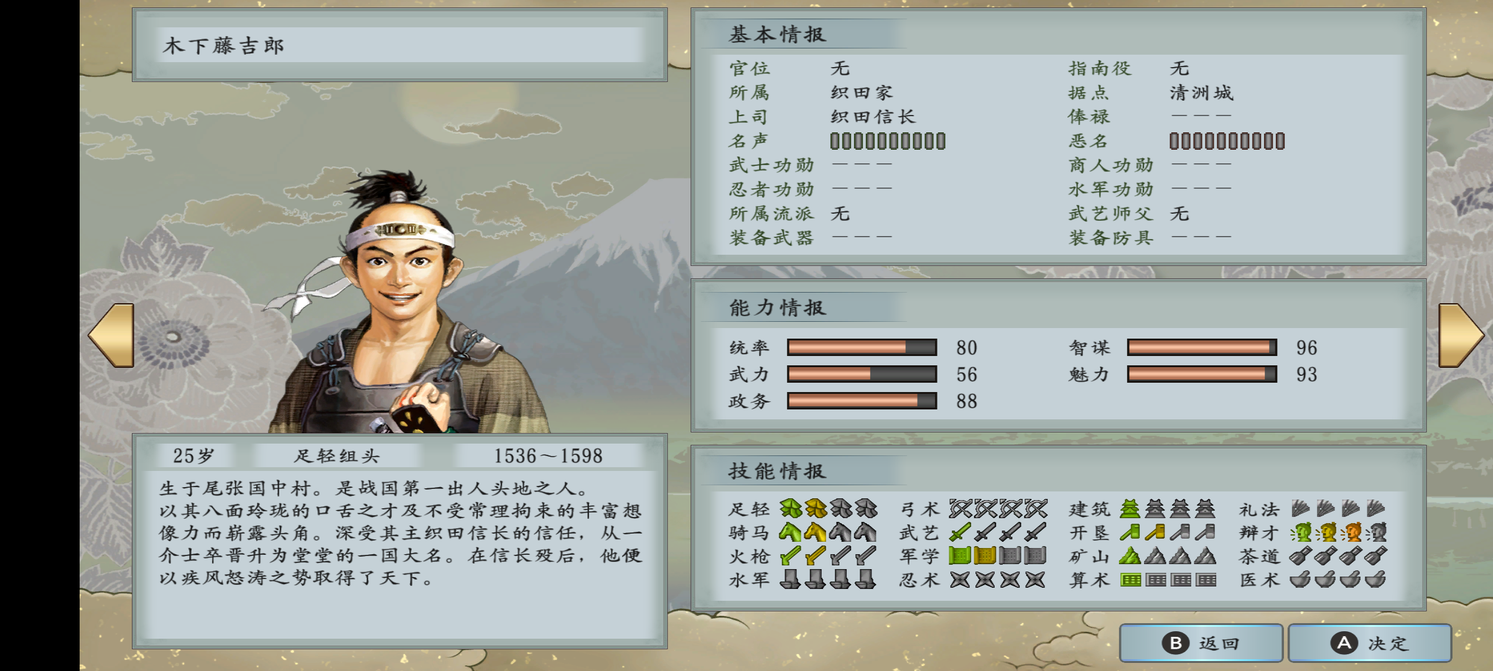
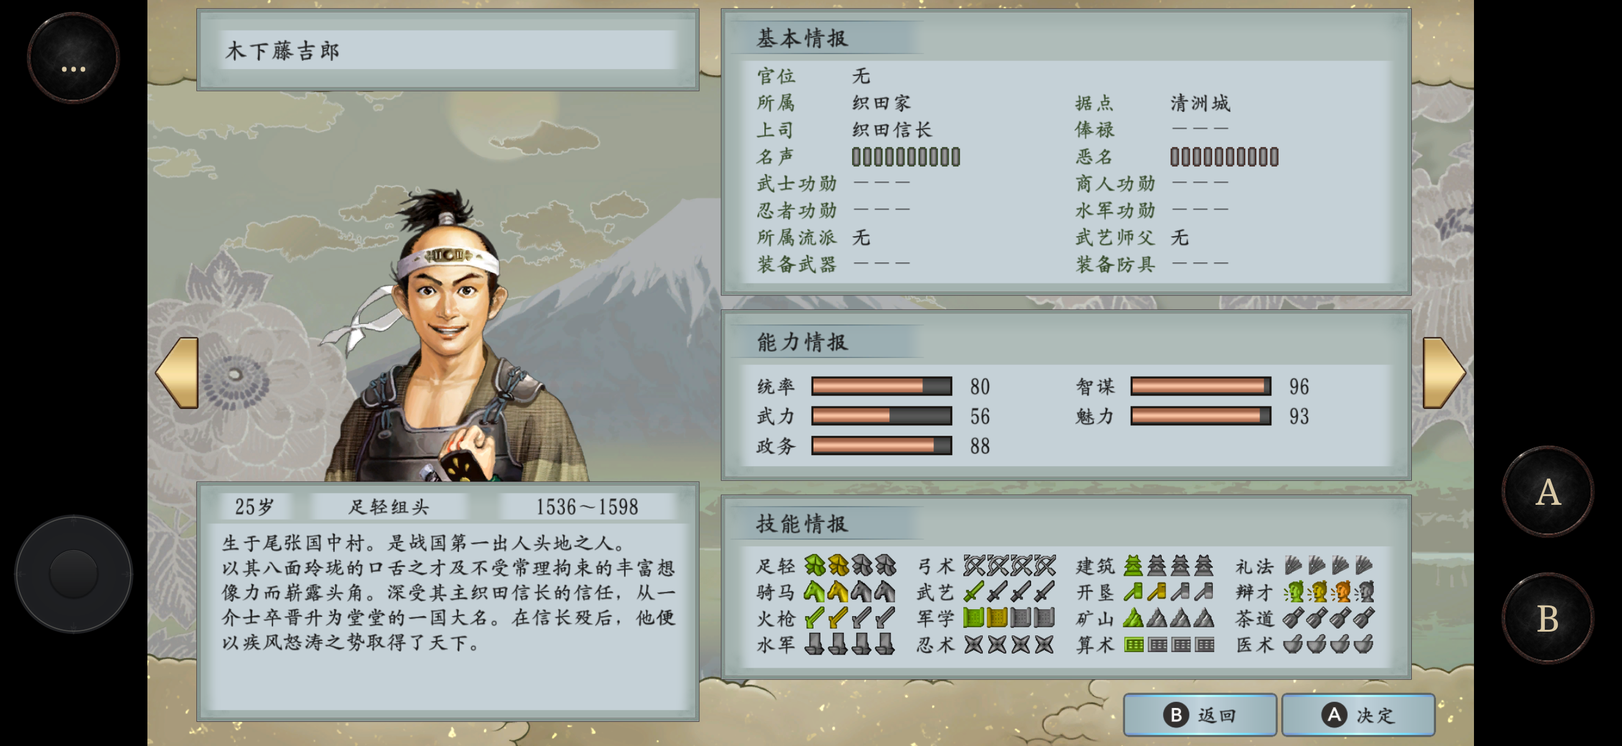
Fix partial CPU writes to GPU-owned textures

diff --git a/dm/gfx/vulkan/engine/xbg_game.cpp b/dm/gfx/vulkan/engine/xbg_game.cpp
@@ -1475,14 +1475,99 @@ uint64_t hash_memory(const void *memory,size_t n){CPU_SCOPE(Hash);const uint8_t 
     uint64_t h[4]={1469598103934665603ull,0x9e3779b97f4a7c15ull,0xc2b2ae3d27d4eb4full,0x165667b19e3779f9ull};size_t i=0;
     for(;i+32<=n;i+=32){for(unsigned k=0;k<4;k++){uint64_t w;memcpy(&w,p+i+8*k,8);h[k]=(h[k]^w)*0x100000001b3ull;h[k]^=h[k]>>29;}}
     uint64_t hash=h[0]^(h[1]*3)^(h[2]*5)^(h[3]*7)^n;for(;i<n;i++){hash^=p[i];hash*=1099511628211ull;}return hash;}
+// Only an explicit partial CPU overwrite needs the old GPU pixels in guest storage.
+// Use private transfer objects: this can run while retiring a frame-slot writeback,
+// so borrowing/resetting a frame-slot arena here would recurse or invalidate its caller.
+uint64_t cpu_image_merges=0,cpu_image_merge_bytes=0;
+void merge_gpu_image_for_cpu_write(Image &im,uint64_t address,uint64_t bytes){
+    need(im.source.mem && im.source.L.size && im.source.L.size<=256ull*1024*1024,"Invalid CPU/GPU texture merge storage");
+    need(im.samples==VK_SAMPLE_COUNT_1_BIT && !im.decoded,"CPU/GPU texture merge needs an uncompressed or native-block single-sample image");
+    struct Part{uint32_t level,layer,w,h,z;size_t row,rows,depth_off,stencil_off;};
+    std::vector<Part> parts;std::vector<VkBufferImageCopy> copies;
+    xbg_depth_format depth{};bool is_depth=xbg_depth_format_info(im.source.d.format,&depth)==0;
+    int bw=1,bh=1,bpb=nvn_fmt_bpb(im.source.d.format,&bw,&bh);
+    need(bpb>0,"Unknown CPU/GPU merge format");
+    std::vector<uint8_t> merged(im.source.L.size);memcpy(merged.data(),im.source.mem,merged.size());
+    size_t total=0;
+    for(uint32_t layer=0;layer<im.layers;layer++)for(uint32_t level=0;level<im.levels;level++){
+        uint32_t w=std::max(1u,im.width>>level),h=std::max(1u,im.height>>level),z=std::max(1u,im.depth>>level);
+        Part part{level,layer,w,h,z,size_t((w+bw-1)/bw)*size_t(bpb),size_t((h+bh-1)/bh),0,0};
+        auto plane=[&](VkImageAspectFlags aspect,size_t length,size_t alignment){
+            total=(total+alignment-1)/alignment*alignment;size_t offset=total;
+            need(total<=256ull*1024*1024 && length<=256ull*1024*1024-total,"CPU/GPU merge staging exceeds bound");total+=length;
+            VkBufferImageCopy copy{};copy.bufferOffset=offset;copy.imageSubresource={aspect,level,layer,1};copy.imageExtent={w,h,z};copies.push_back(copy);return offset;
+        };
+        if(is_depth){
+            size_t pixels=size_t(w)*h*z;
+            if(depth.depth_bytes)part.depth_off=plane(VK_IMAGE_ASPECT_DEPTH_BIT,pixels*((im.source.d.format==0x32&&depth16_as_d24)?4:depth.depth_bytes),4);
+            if(depth.stencil_bytes)part.stencil_off=plane(VK_IMAGE_ASPECT_STENCIL_BIT,pixels*depth.stencil_bytes,4);
+        }else{
+            size_t alignment=4;while(alignment%size_t(bpb))alignment+=4;
+            part.depth_off=plane(VK_IMAGE_ASPECT_COLOR_BIT,part.row*part.rows*z,alignment);
+        }
+        parts.push_back(part);
+    }
+    // Queue order includes all prior game work, without retiring/reusing either slot.
+    submit_slots(false);
+    Arena arena;arena.cached=true;ArenaChunk chunk=arena.make(total);
+    VkCommandPool pool{};VkCommandPoolCreateInfo pci{VK_STRUCTURE_TYPE_COMMAND_POOL_CREATE_INFO};pci.queueFamilyIndex=cfg.queue_family;
+    VK(vkCreateCommandPool(cfg.device,&pci,nullptr,&pool));
+    VkCommandBuffer command{};VkCommandBufferAllocateInfo cai{VK_STRUCTURE_TYPE_COMMAND_BUFFER_ALLOCATE_INFO};cai.commandPool=pool;cai.level=VK_COMMAND_BUFFER_LEVEL_PRIMARY;cai.commandBufferCount=1;
+    VK(vkAllocateCommandBuffers(cfg.device,&cai,&command));
+    VkCommandBufferBeginInfo begin{VK_STRUCTURE_TYPE_COMMAND_BUFFER_BEGIN_INFO};begin.flags=VK_COMMAND_BUFFER_USAGE_ONE_TIME_SUBMIT_BIT;VK(vkBeginCommandBuffer(command,&begin));
+    VkImageLayout saved=im.layout;im.transition(command,VK_IMAGE_LAYOUT_TRANSFER_SRC_OPTIMAL);
+    vkCmdCopyImageToBuffer(command,im.image,im.layout,chunk.buffer,uint32_t(copies.size()),copies.data());
+    im.transition(command,saved);
+    VkMemoryBarrier host{VK_STRUCTURE_TYPE_MEMORY_BARRIER};host.srcAccessMask=VK_ACCESS_TRANSFER_WRITE_BIT;host.dstAccessMask=VK_ACCESS_HOST_READ_BIT;
+    vkCmdPipelineBarrier(command,VK_PIPELINE_STAGE_TRANSFER_BIT,VK_PIPELINE_STAGE_HOST_BIT,0,1,&host,0,nullptr,0,nullptr);VK(vkEndCommandBuffer(command));
+    VkFence fence{};VkFenceCreateInfo fci{VK_STRUCTURE_TYPE_FENCE_CREATE_INFO};VK(vkCreateFence(cfg.device,&fci,nullptr,&fence));
+    VkSubmitInfo submit{VK_STRUCTURE_TYPE_SUBMIT_INFO};submit.commandBufferCount=1;submit.pCommandBuffers=&command;
+    VK(vkQueueSubmit(cfg.queue,1,&submit,fence));++perf.submits;++perf.sync_readback;++perf.waits;
+    VK(vkWaitForFences(cfg.device,1,&fence,VK_TRUE,UINT64_MAX));
+    if(!chunk.coherent){VkMappedMemoryRange range{VK_STRUCTURE_TYPE_MAPPED_MEMORY_RANGE};range.memory=chunk.memory;range.size=VK_WHOLE_SIZE;VK(vkInvalidateMappedMemoryRanges(cfg.device,1,&range));}
+    for(const Part &part:parts){
+        std::vector<uint8_t> packed;const uint8_t *linear=chunk.mapped+part.depth_off;
+        if(im.source.d.flags&0x10){
+            need(part.level==0&&part.layer==0&&part.z==1,"Linear CPU/GPU merge mip/layer/volume unsupported");
+            size_t pitch=im.source.d.stride?im.source.d.stride:(part.row+31)&~size_t(31);
+            need(pitch>=part.row&&pitch<=merged.size()/part.rows,"Linear CPU/GPU merge storage extent invalid");
+        }
+        if(is_depth){
+            packed.resize(part.row*part.rows*part.z);
+            if(im.source.d.flags&0x10){size_t pitch=im.source.d.stride?im.source.d.stride:(part.row+31)&~size_t(31);for(uint32_t y=0;y<part.h;y++)memcpy(packed.data()+y*part.row,merged.data()+y*pitch,part.row);}
+            else need(nvn_deswizzle(&im.source.d,part.level,part.layer,merged.data(),packed.data(),part.row)==0,"Depth merge deswizzle failed");
+            const void *dp=depth.depth_bytes?chunk.mapped+part.depth_off:nullptr,*sp=depth.stencil_bytes?chunk.mapped+part.stencil_off:nullptr;
+            size_t pixels=size_t(part.w)*part.h*part.z;std::vector<uint16_t> d16;
+            if(im.source.d.format==0x32&&depth16_as_d24){d16.resize(pixels);for(size_t i=0;i<pixels;i++){uint32_t value;memcpy(&value,static_cast<const uint8_t*>(dp)+4*i,4);d16[i]=uint16_t(d24_to_d16(value));}dp=d16.data();}
+            need(xbg_depth_merge(im.source.d.format,part.w,part.h,part.z,packed.data(),packed.size(),part.row,part.row*part.rows,dp,pixels*depth.depth_bytes,sp,pixels*depth.stencil_bytes)==0,"Depth merge packing failed");
+            linear=packed.data();
+        }
+        if(im.source.d.flags&0x10){
+            need(part.level==0&&part.layer==0&&part.z==1,"Linear CPU/GPU merge mip/layer/volume unsupported");
+            size_t pitch=im.source.d.stride?im.source.d.stride:(part.row+31)&~size_t(31);
+            need(pitch>=part.row&&pitch*part.rows<=merged.size(),"Linear CPU/GPU merge storage extent invalid");
+            for(size_t y=0;y<part.rows;y++)memcpy(merged.data()+y*pitch,linear+y*part.row,part.row);
+        }else need(nvn_swizzle(&im.source.d,part.level,part.layer,linear,part.row,merged.data())==0,"CPU/GPU merge swizzle failed");
+    }
+    vkDestroyFence(cfg.device,fence,nullptr);vkDestroyCommandPool(cfg.device,pool,nullptr);Arena::destroy(chunk);
+    uint64_t base=uintptr_t(im.source.mem),end=base+merged.size();
+    uint64_t first=std::max(base,address),last=std::min(end,address+bytes);
+    // The caller supplies the overwrite next. Preserve its CPU bytes until then;
+    // only the untouched prefix/suffix are brought current from the GPU snapshot.
+    if(first>base)memcpy(im.source.mem,merged.data(),size_t(first-base));
+    if(last<end)memcpy(im.source.mem+(last-base),merged.data()+(last-base),size_t(end-last));
+    snapshot_invalidate(base,merged.size());
+    ++cpu_image_merges;cpu_image_merge_bytes+=total;
+    if(cpu_image_merges<=12)xbg_logf("NVN CPUWRITE merge count=%llu op=%u serial=%llu format=%#x readback=%zu overwrite=%llu totalReadback=%llu",(unsigned long long)cpu_image_merges,cur_op,(unsigned long long)im.source.serial,im.source.d.format,total,(unsigned long long)bytes,(unsigned long long)cpu_image_merge_bytes);
+}
 void invalidate_cpu_range(uint64_t address,uint64_t bytes){CPU_SCOPE(CpuWrite);
     need(address+bytes>=address,"CPU write range overflow");cpu_access(address,bytes,4);snapshot_invalidate(address,bytes);
-    for_images_overlapping(address,bytes,[&](Image &im){if(draw_detail)draw_timing.image();uint64_t begin=uintptr_t(im.source.mem),end=begin+im.source.L.size;
-        // A full storage overwrite replaces the prior GPU contents. A partial
-        // overwrite requires GPU-to-NVN readback/merge before applying CPU data.
-        need(!im.gpu_written || (address<=begin && address+bytes>=end),"Partial CPU write aliases GPU-written texture; readback/merge required");
+    std::vector<Image*> overlap;for_images_overlapping(address,bytes,[&](Image &im){if(std::find(overlap.begin(),overlap.end(),&im)==overlap.end())overlap.push_back(&im);});
+    std::sort(overlap.begin(),overlap.end(),[](Image *a,Image *b){return a->provenance_writer<b->provenance_writer;});
+    for(Image *image:overlap){Image &im=*image;if(draw_detail)draw_timing.image();uint64_t begin=uintptr_t(im.source.mem),end=begin+im.source.L.size;
+        if(im.gpu_written && !(address<=begin && address+bytes>=end))merge_gpu_image_for_cpu_write(im,address,bytes);
         im.gpu_written=false;provenance_write(im,__LINE__);im.uploaded=false;im.checked_submission=UINT64_MAX;
-    });
+    }
 }
 
 bool resolving_pending=false;
@@ -3280,7 +3365,7 @@ void copy_texture_buffer(const p_copy_b2t &request,bool to_buffer){preflight_cpu
     if(!to_buffer){
         int bw=1,bh=1;int bpb=nvn_fmt_bpb(p.tex->d.format,&bw,&bh);xbg_depth_format depth;
         if(xbg_depth_format_info(p.tex->d.format,&depth)==0){bw=bh=1;bpb=int(depth.packed_bytes);}
-        size_t row,image,bytes;
+        size_t row=0,image=0,bytes=0;
         need(bpb>0 && nvn_copy_pitch(p.r.width,p.r.height,p.r.depth,bw,bh,bpb,state.copy_stride,state.copy_image_stride,&row,&image,&bytes) && bytes<=256ull*1024*1024,"Invalid buffer image CPU read range");
         cpu_access(p.src,bytes,9);
     }
@@ -3971,7 +4056,14 @@ extern "C" int xbg_legacy_wait(uint64_t fence,uint64_t timeout){
     return fence<=completed;
 }
 extern "C" void xbg_legacy_finish(){gfx_drain();std::lock_guard<std::recursive_mutex> lock(mutex);need(initialized,"Queue finish before Vulkan initialization");++perf.why_finish;complete_all();VK(vkQueueWaitIdle(cfg.queue));}
-static void xbg_present_texture_now(const win_t *window,const tex_t *texture){std::lock_guard<std::recursive_mutex> lock(mutex);preflight_cpu_reads();{SiteScope site(SITE_PRESENT);cur_op=61;TimingRoot timing_root;CPU_SCOPE(Other);need(initialized&&cfg.present,"Game presentation callback not installed");uint64_t present_begin=timing_clock();Image &im=get_image(texture,false);need(im.gpu_written,"Game tried to present a texture never rendered");Commands c;im.transition(c.command,VK_IMAGE_LAYOUT_TRANSFER_SRC_OPTIMAL);c.finish();submit_slots(false);int r;{CPU_SCOPE(Present);r=cfg.present(cfg.userdata,window->native,im.image,im.fmt,im.width,im.height,window->crop,window->interval);}if(r)xbg_fatalf("Game presentation failed: %d",r);++stats.presents;if(pass_prof_enabled && stats.presents.load()==pass_prof_frame)xbg_logf("NVN GPASS boundary frame=%llu slots=%u skipped_slots=%u reserved_queries=%u max_queries=%u max_slots=%u",(unsigned long long)pass_prof_frame,pass_prof_slots,pass_prof_skipped_slots,pass_prof_queries,pass_prof_query_limit,pass_prof_slot_limit);perf.present_cpu_ns+=timing_clock()-present_begin;perf_frame();if(provenance_file && stats.presents.load()>=provenance.target)provenance_close("END");if(capture.trace && stats.presents==capture.frame){capture_log("END frame=%llu events=%u bytes=%llu presentedSerial=%llu image=%p",(unsigned long long)capture.frame,capture.events,(unsigned long long)capture.bytes,(unsigned long long)texture->serial,(void*)im.image);fclose(capture.trace);capture.trace=nullptr;capture.active=false;xbg_logf("NVN one-frame capture complete frame=%llu events=%u bytes=%llu",(unsigned long long)capture.frame,capture.events,(unsigned long long)capture.bytes);}}timing_boundary();}
+#if XBG_CPU_MERGE_TEST
+#include "../tests/cpu_image_merge.h"
+#endif
+static void xbg_present_texture_now(const win_t *window,const tex_t *texture){std::lock_guard<std::recursive_mutex> lock(mutex);preflight_cpu_reads();{SiteScope site(SITE_PRESENT);cur_op=61;TimingRoot timing_root;CPU_SCOPE(Other);need(initialized&&cfg.present,"Game presentation callback not installed");uint64_t present_begin=timing_clock();Image &im=get_image(texture,false);need(im.gpu_written,"Game tried to present a texture never rendered");
+#if XBG_CPU_MERGE_TEST
+cpu_image_merge_test();
+#endif
+Commands c;im.transition(c.command,VK_IMAGE_LAYOUT_TRANSFER_SRC_OPTIMAL);c.finish();submit_slots(false);int r;{CPU_SCOPE(Present);r=cfg.present(cfg.userdata,window->native,im.image,im.fmt,im.width,im.height,window->crop,window->interval);}if(r)xbg_fatalf("Game presentation failed: %d",r);++stats.presents;if(stats.presents.load()%300==0)xbg_logf("NVN CPUWRITE totals merges=%llu readbackBytes=%llu",(unsigned long long)cpu_image_merges,(unsigned long long)cpu_image_merge_bytes);if(pass_prof_enabled && stats.presents.load()==pass_prof_frame)xbg_logf("NVN GPASS boundary frame=%llu slots=%u skipped_slots=%u reserved_queries=%u max_queries=%u max_slots=%u",(unsigned long long)pass_prof_frame,pass_prof_slots,pass_prof_skipped_slots,pass_prof_queries,pass_prof_query_limit,pass_prof_slot_limit);perf.present_cpu_ns+=timing_clock()-present_begin;perf_frame();if(provenance_file && stats.presents.load()>=provenance.target)provenance_close("END");if(capture.trace && stats.presents==capture.frame){capture_log("END frame=%llu events=%u bytes=%llu presentedSerial=%llu image=%p",(unsigned long long)capture.frame,capture.events,(unsigned long long)capture.bytes,(unsigned long long)texture->serial,(void*)im.image);fclose(capture.trace);capture.trace=nullptr;capture.active=false;xbg_logf("NVN one-frame capture complete frame=%llu events=%u bytes=%llu",(unsigned long long)capture.frame,capture.events,(unsigned long long)capture.bytes);}}timing_boundary();}
 extern "C" void xbg_legacy_read_texels(const tex_t *t,unsigned level,unsigned layer,const NVNcopyRegion *r,uint8_t *dst,size_t row,size_t image){gfx_drain();std::lock_guard<std::recursive_mutex> lock(mutex);preflight_cpu_reads();need(t&&r&&dst,"Invalid ReadTexels arguments");auto found=images.find(t->serial);if(found==images.end() || !found->second->gpu_written){int bw,bh,bpp=nvn_fmt_bpb(t->d.format,&bw,&bh);need(bpp && r->xoffset==0 && r->yoffset==0 && r->zoffset==0 && r->depth==1 && uint32_t(r->width)==std::max(1u,t->d.width>>level) && uint32_t(r->height)==std::max(1u,t->d.height>>level),"CPU ReadTexels partial region unsupported");need(!(t->d.flags&0x10),"Linear CPU ReadTexels not implemented");need(nvn_deswizzle(&t->d,level,layer,t->mem,dst,row)==0,"ReadTexels deswizzle failed");}
     else{p_copy_b2t p{};p.src=uint64_t(dst);p.tex=t;p.has_view=1;p.view.set_levels=p.view.set_layers=1;p.view.base_level=level;p.view.nlevels=1;p.view.min_layer=layer;p.view.nlayers=1;p.r=*r;int64_t old=state.copy_stride,old_image=state.copy_image_stride;state.copy_stride=row;state.copy_image_stride=image;copy_texture_buffer(p,true);state.copy_stride=old;state.copy_image_stride=old_image;}}
 

diff --git a/dm/gfx/vulkan/tests/cpu_image_merge.h b/dm/gfx/vulkan/tests/cpu_image_merge.h
@@ -1,0 +1,46 @@
+// Included inside the replay namespace in integration-test builds only.
+// No game inputs: clear a real Vulkan image, replace one guest byte, and verify
+// every texel across three mip levels and two array layers, plus storage padding.
+void cpu_image_merge_test(){
+    static bool ran=false;if(ran)return;ran=true;
+    tex_t texture{};texture.magic=MAGIC('T','E','X',0);texture.serial=UINT64_MAX-1;
+    texture.d.target=4;texture.d.format=NVN_FORMAT_RGBA8;texture.d.width=17;texture.d.height=9;texture.d.depth=2;texture.d.levels=3;
+    nvn_tex_layout(&texture.d,&texture.L);
+    std::vector<uint8_t> storage(texture.L.size,0xa5);texture.mem=storage.data();
+    Image &im=get_image(&texture,false);
+    Commands command;im.transition(command.command,VK_IMAGE_LAYOUT_TRANSFER_DST_OPTIMAL);
+    VkClearColorValue color{};color.float32[0]=.2f;color.float32[1]=.4f;color.float32[2]=.6f;color.float32[3]=.8f;
+    VkImageSubresourceRange range{VK_IMAGE_ASPECT_COLOR_BIT,0,im.levels,0,im.layers};
+    vkCmdClearColorImage(command.command,im.image,im.layout,&color,1,&range);
+    im.transition(command.command,VK_IMAGE_LAYOUT_GENERAL);command.finish();im.gpu_written=true;provenance_write(im,__LINE__);
+    uint32_t row,rows,slices,bpb;uint64_t base;unsigned th,td;
+    need(nvn_deswizzle_geom(&texture.d,0,0,&row,&rows,&slices,&base,&th,&td,&bpb)==0,"Merge fixture geometry failed");
+    const size_t offset=base+nvn_bl_offset(3*4+2,1,0,row,rows,th,td);
+    const uint64_t before=cpu_image_merges;
+    invalidate_cpu_range(uintptr_t(storage.data()+offset),1);storage[offset]=0x7b;
+    need(cpu_image_merges==before+1,"Merge fixture did not exercise exactly one GPU merge");
+    std::vector<uint8_t> expected(texture.L.size,0xa5);
+    for(uint32_t layer=0;layer<2;layer++)for(uint32_t level=0;level<3;level++){
+        uint32_t w=std::max(1u,17u>>level),h=std::max(1u,9u>>level);std::vector<uint8_t> pixels(size_t(w)*h*4);
+        for(size_t i=0;i<pixels.size();i++)pixels[i]=uint8_t(51*(i%4+1));
+        if(layer==0&&level==0)pixels[(1*w+3)*4+2]=0x7b;
+        need(nvn_swizzle(&texture.d,level,layer,pixels.data(),w*4,expected.data())==0,"Merge fixture swizzle failed");
+    }
+    need(storage==expected,"GPU merge lost pixels, mip/layer contents, patch bytes or padding");
+    invalidate_cpu_range(uintptr_t(storage.data()+offset),1);
+    need(cpu_image_merges==before+1,"CPU-authoritative write performed an unnecessary GPU merge");
+    im.gpu_written=true;invalidate_cpu_range(uintptr_t(storage.data()),storage.size());
+    need(cpu_image_merges==before+1,"Full overwrite performed an unnecessary GPU merge");
+    // Also enter through deferred slot writeback retirement. The merge must not
+    // borrow/reset that slot's arena or recursively resolve the pending list.
+    im.gpu_written=true;
+    Buffer patch=readback_buffer(1);static_cast<uint8_t*>(patch.mapped)[0]=0x39;patch.flush();
+    const void *owner=&texture;
+    pending_writebacks.push_back({uintptr_t(storage.data()+offset),1,patch,owner});
+    resolve_slot_writebacks(owner);
+    need(cpu_image_merges==before+2&&storage[offset]==0x39,"Deferred writeback merge failed");
+    expected[offset]=0x39;
+    need(storage==expected,"Deferred writeback merge changed untouched pixels or padding");
+    images.erase(texture.serial);image_index_dirty=true;++images_epoch;++memo_check_gen;
+    xbg_logf("NVN CPUWRITE integration PASS: one-byte overwrite, mip/layer preservation, padding, CPU-only/full-overwrite fast paths, deferred writeback retirement");
+}

diff --git a/scripts/build_apk.py b/scripts/build_apk.py
@@ -25,7 +25,7 @@ def main():
     run(sys.executable, ROOT / 'dm/games/game.py', 'header', '0100346017304000', gen / 'game_profile.h')
     run(a.cmake, '-S', ROOT / 'dm/android', '-B', native, '-G', 'Ninja',
         f'-DCMAKE_TOOLCHAIN_FILE={a.ndk.resolve() / "build/cmake/android.toolchain.cmake"}',
-        '-DANDROID_ABI=arm64-v8a', '-DANDROID_PLATFORM=android-31', f'-DNX_GEN_DIR={gen}', '-DCMAKE_BUILD_TYPE=RelWithDebInfo')
+        '-DANDROID_ABI=arm64-v8a', '-DANDROID_PLATFORM=android-31', '-DXBG_CPU_MERGE_TEST=OFF', f'-DNX_GEN_DIR={gen}', '-DCMAKE_BUILD_TYPE=RelWithDebInfo')
     run(a.cmake, '--build', native, '--target', 'taikou', '-j', a.jobs)
     run(sys.executable, ROOT / 'dm/android/tools/package_bringup.py', '--build', native, '--output', apk,
         '--build-tools', a.build_tools.resolve(), '--jdk', a.jdk.resolve(), '--android-jar', a.android_jar.resolve())

diff --git a/README.md b/README.md
@@ -8,17 +8,17 @@ Android 12+ · ARM64 · Vulkan 1.1 baseline · Switch title `0100346017304000`, 
 
 ## Screenshots
 
-Actual Android emulator captures. The title screen is from **0.1.2-preview / v196608**. The character profile and opening dialogue are from the **earlier base-v0 bring-up**, before the current touch overlay; they are not evidence that the latest updated build reaches those scenes. In the latest capture attempt, entering character details aborted on an unsupported partial CPU/GPU texture alias operation; see [validation notes](docs/VALIDATION.md).
+Actual Android emulator captures. The title screen is from **0.1.2-preview / v196608**. The character profile and opening dialogue are from **0.1.3-preview / v196608**, with the current touch overlay. See [validation notes](docs/VALIDATION.md).
 
 **Title screen — centered 16:9 with virtual controls**
 
 ![Taikou Risshiden V DX title screen with centered game image and virtual joystick and A/B buttons](docs/screenshots/main-screen.png)
 
-**Kinoshita Tokichiro — introduction, attributes and skills (earlier base-game build)**
+**Kinoshita Tokichiro — introduction, attributes and skills (0.1.3-preview)**
 
 ![Kinoshita Tokichiro character profile showing biography, attributes and skills](docs/screenshots/kinoshita-profile.png)
 
-**First conversation outside Kiyosu Castle (earlier base-game build)**
+**First conversation outside Kiyosu Castle (0.1.3-preview)**
 
 ![Opening conversation: a ninja tells Kinoshita that Nobunaga is looking for him](docs/screenshots/opening-dialogue.png)
 
@@ -31,7 +31,7 @@ Screenshots illustrate compatibility only. In-game artwork/text belong to their 
 - Scripts to rewrite your original ExeFS, extract/translate your own shaders and create a private import ZIP.
 - A shell APK containing runtime code and project control artwork only. It contains no game executable, RomFS, translated game shaders or saves.
 
-This is an early preview, not a claim of complete compatibility. The earlier base-game build reached the opening conversation outside Kiyosu Castle in the emulator. The updated build reached title/scenario selection and accepted native touch. Menu/selection samples in the development emulator measured approximately 51–54 FPS; movies were slower. These are emulator observations, not phone benchmarks or full-playthrough results. [Limitations](docs/ANDROID.md#known-limitations).
+This is an early preview, not a claim of complete compatibility. The updated v196608 build reached the character profile and opening conversation outside Kiyosu Castle in the emulator, and accepted native touch. Menu/selection samples in the development emulator measured approximately 51–54 FPS; movies were slower. These are emulator observations, not phone benchmarks or full-playthrough results. [Limitations](docs/ANDROID.md#known-limitations).
 
 ## Start here
 

diff --git a/README.zh-CN.md b/README.zh-CN.md
@@ -8,17 +8,17 @@ Android 12 及以上 · ARM64 · Vulkan 1.1 基线 · Switch 标题 ID `01003460
 
 ## 运行效果
 
-以下均为 Android 模拟器实际截图。标题画面来自 **0.1.2-preview / v196608 更新版**；人物介绍/属性与开场对话来自**此前本体 v0 的开发验证**，当时尚未加入当前虚拟控件，不能据此认为最新更新版已通过这些场景。本次重新截图时，当前更新版进入人物详情触发了尚未支持的 CPU/GPU 贴图部分写入别名操作并退出，已记录在[验证说明](docs/VALIDATION.md)。
+以下均为 Android 模拟器实际截图。标题画面来自 **0.1.2-preview / v196608 更新版**；人物介绍、属性与开场对话来自 **0.1.3-preview / v196608 更新版**，已包含当前虚拟控件。详见[验证说明](docs/VALIDATION.md)。
 
 **主界面：居中 16:9，保留虚拟摇杆与 A/B**
 
 ![太阁立志传 V DX 标题主界面，游戏画面居中，两侧为摇杆及 A/B](docs/screenshots/main-screen.png)
 
-**木下藤吉郎：人物介绍、属性与技能（此前本体验证版）**
+**木下藤吉郎：人物介绍、属性与技能（0.1.3-preview）**
 
 ![木下藤吉郎的人物介绍与属性界面，展示统率、武力、政务、智谋、魅力及技能](docs/screenshots/kinoshita-profile.png)
 
-**开场第一个对话：清洲城外（此前本体验证版）**
+**开场第一个对话：清洲城外（0.1.3-preview）**
 
 ![开场忍者对木下藤吉郎说：木下大人，信长大人在找你](docs/screenshots/opening-dialogue.png)
 
@@ -31,7 +31,7 @@ Android 12 及以上 · ARM64 · Vulkan 1.1 基线 · Switch 标题 ID `01003460
 - 从个人原始 ExeFS 改写程序、提取并翻译个人游戏着色器、生成私有导入 ZIP 的脚本。
 - 仅包含运行时代码及项目控件美术的壳 APK。**不含游戏程序、RomFS、游戏着色器或存档。**
 
-目前为早期预览。之前的本体运行版本已在模拟器进入清洲城外的开场对话；更新版已进入标题和剧本选择，并验证原生触摸。开发模拟器的菜单、人物选择样本约 51–54 FPS，影片较慢。这些不是手机性能数据，也不代表完整通关验证。[已知限制](docs/ANDROID.zh-CN.md#已知限制)。
+目前为早期预览。v196608 更新版已在模拟器通过人物介绍、属性页，进入清洲城外的开场对话，并验证原生触摸。开发模拟器的菜单、人物选择样本约 51–54 FPS，影片较慢。这些不是手机性能数据，也不代表完整通关验证。[已知限制](docs/ANDROID.zh-CN.md#已知限制)。
 
 ## 如何开始
 

diff --git a/docs/VALIDATION.md b/docs/VALIDATION.md
@@ -17,3 +17,14 @@ Cutout correction (0.1.1-preview): enabled a left-cutout emulator overlay at 260
 Automatic startup (0.1.2-preview): cold-started the final shell with previously verified imported resources. It directly created the game Surface, without the import/Play launcher, in approximately 765 ms Activity startup time on this emulator. The full-screen 2608×1200 window and (237,0,2133,1200) Surface bounds were retained. This timing is Activity startup, not time to the game menu.
 
 README capture follow-up (2026-10-23): the current v196608 / 0.1.2-preview build reached scenario and protagonist selection, but confirming Kinoshita Tokichiro then aborted with `Partial CPU write aliases GPU-written texture; readback/merge required`. The README therefore uses the prior base-v0 profile and opening-dialogue captures with explicit build labels. This observed updated-build limitation is not resolved by the documentation change.
+
+
+## Partial texture alias fix (0.1.3-preview)
+
+The 0.1.2 failure above was intermittent; successful scene navigation alone does not prove the alias path. An opt-in integration fixture on emulator-5556 exercised actual Vulkan image copies: a 17×9 RGBA8 image with three mips and two layers, a one-byte CPU overwrite, every preserved pixel and padding byte, CPU-owned/full-overwrite fast paths, and a deferred slot writeback. Both required merges passed (1,544 bytes each); fast paths added no merges.
+
+The public build disables the fixture. That APK reached the v196608 Kinoshita profile and opening ninja conversation, with the process alive and sampled CPUWRITE counters at zero merges/zero readback bytes. This verifies those scenes without adding recurring readback; it is not a complete playthrough. Partial merges of decoded BC or multisample images remain unsupported.
+
+The same-signature 0.1.3 APK was installed on the connected phone. Resource import and phone gameplay/performance remain pending. The earlier statement about CI describes initial local validation; the hosted workflow has since run successfully.
+
+中文：新增真实 Vulkan 定向检查，验证单字节覆盖、多级 mip/多层贴图、填充保留，以及延迟写回；两个必要合并均通过，完整覆盖和 CPU 持有路径无额外回读。关闭检查的公开 APK 已在模拟器进入更新版人物属性及忍者开场对话，采样期间合并和回读计数均为零。新版已覆盖安装到手机，手机资源导入和实际运行尚待验证。

diff --git a/docs/screenshots/README.md b/docs/screenshots/README.md
@@ -5,9 +5,9 @@ Captured on 2026-10-23 in the Android emulator, with no compositing or generated
 | File | Scene | Build provenance |
 |---|---|---|
 | main-screen.png | Title / main screen, 2608×1200 display | 0.1.2-preview, updated v196608; current centered viewport and touch overlay |
-| kinoshita-profile.png | Kinoshita Tokichiro introduction, attributes and skills | Earlier base-v0 bring-up, before the current overlay; original capture emulator-choose.png |
-| opening-dialogue.png | First conversation outside Kiyosu Castle | Earlier base-v0 bring-up, before the current overlay; original capture emulator-ingame.png |
+| kinoshita-profile.png | Kinoshita Tokichiro introduction, attributes and skills | 0.1.3-preview, updated v196608; current overlay, capture fixed-profile.png |
+| opening-dialogue.png | First conversation outside Kiyosu Castle | 0.1.3-preview, updated v196608; current overlay, capture fixed-dialogue.png |
 
 These are illustrative documentation captures, not extracted runtime textures or a playable content package. Game artwork/text/trademarks remain the property of their respective owners and are not covered by the project's MIT code license. Screenshots are not embedded in the APK or personal-resource generator. They demonstrate specific captured scenes, not a full playthrough, a phone performance benchmark, or current-version compatibility for every scene.
 
-中文：均为模拟器原始截图，未合成或生成。主界面为当前更新版，属性页和首个对话为之前本体开发版；已明确区分版本。截图仅用于文档展示，不打入 APK，也不是游戏资源包。游戏内容权利不因代码 MIT 许可证而转移。
+中文：均为模拟器原始截图，未合成或生成。主界面为 0.1.2-preview，属性页和首个对话为 0.1.3-preview，均使用 v196608 更新版；已明确区分版本。截图仅用于文档展示，不打入 APK，也不是游戏资源包。游戏内容权利不因代码 MIT 许可证而转移。

diff --git a/artifacts/RELEASE_NOTES.md b/artifacts/RELEASE_NOTES.md
@@ -1,4 +1,4 @@
-# Taikou5 Mobile 0.1.2-preview
+# Taikou5 Mobile 0.1.3-preview
 
 [English](../README.md) · [中文](../README.zh-CN.md)
 
@@ -9,3 +9,7 @@ Based on seedds/nxnative a08bbdd3 and official jhaizhou-ops/d2r-mobile v2.0.0 b8
 中文：仅提供 ARM64 壳 APK，不含游戏、着色器、DLC、密钥及存档。请按中文文档自备并合并本体和 v196608 更新，再运行脚本生成个人 ZIP 导入。感谢 nxnative 与官方 d2r-mobile。当前为模拟器预览，未验证真机与完整通关；卸载会删除私有数据，注意先备份。
 
 Fix: centered 16:9 across the full display, with camera avoidance applied to controls only. 修正：按整块屏幕居中保持 16:9，摄像头仅影响控件避让。
+
+Fix: partial CPU overwrites now preserve GPU-written image data instead of aborting. Updated-game character profile and opening conversation verified in the emulator; phone gameplay validation pending. Existing personal ZIPs remain compatible.
+
+修复：CPU 部分覆盖贴图时合并保留 GPU 内容，避免此前的退出。模拟器已通过更新版人物属性与开场对话；真机运行待验证。原有个人资源包可继续使用，无需重新打包。

diff --git a/docs/ANDROID.md b/docs/ANDROID.md
@@ -48,9 +48,9 @@ Keep backups private. Test backup/restore before relying on a long playthrough. 
 
 ## Known limitations
 
-- Current v196608 character-details transition was observed aborting on `Partial CPU write aliases GPU-written texture; readback/merge required`. Earlier base-game screenshots do not establish current updated-build compatibility for this transition.
+- Partial CPU writes to GPU-owned textures are merged in 0.1.3-preview. Decoded-BC re-encoding and multisample alias merges remain unsupported.
 
-- Emulator title/scenario/touch and earlier base-game opening scene were tested; no full playthrough or physical Adreno validation yet.
+- Emulator title/scenario/touch, updated-game profile and opening scene were tested; no full playthrough or physical Adreno validation yet.
 - `GetGestureStates` is still a stub; pinch/gesture zoom is unavailable. Native tap input works in the updated menu.
 - System text entry, full physical-gamepad analog support, background/Surface recovery, save management UI and shader warm-up UI remain unfinished.
 - VP9/Vorbis movies decode in software and may be slow in an ARM-translating emulator. AAC/H.264 adapters are unsupported.

diff --git a/docs/ANDROID.zh-CN.md b/docs/ANDROID.zh-CN.md
@@ -48,9 +48,9 @@ python -c "import subprocess,pathlib; pathlib.Path('taikou-save.tar').write_byte
 
 ## 已知限制
 
-- 本次观察到 v196608 进入人物详情时因 `Partial CPU write aliases GPU-written texture; readback/merge required` 退出；此前本体截图不代表当前更新版已通过该流程。
+- 0.1.3-preview 已支持对 GPU 持有贴图的 CPU 部分写入合并；已解码 BC 的重新编码、多重采样贴图别名合并尚不支持。
 
-- 已验证模拟器标题、剧本选择与触摸，以及此前本体的开场场景；未完整通关或进行 Adreno 真机验证。
+- 已验证模拟器标题、剧本选择与触摸，以及更新版的人物属性和开场场景；未完整通关或进行 Adreno 真机验证。
 - `GetGestureStates` 仍为空实现，双指缩放等手势尚不可用；更新版菜单的原生点击已验证。
 - 系统文字输入、实体手柄完整模拟轴、后台及 Surface 恢复、存档管理 UI、着色器预热 UI 尚未完善。
 - VP9/Vorbis 影片走软件解码，在翻译 ARM 的模拟器上可能较慢；AAC/H.264 适配不支持。

diff --git a/CHANGELOG.md b/CHANGELOG.md
@@ -1,5 +1,12 @@
 # Changelog
 
+## 0.1.3-preview — 2026-10-23
+
+- Merge GPU-owned image contents before partial CPU overwrites instead of aborting; preserve untouched mip/layer data and guest padding.
+- Keep full-overwrite and CPU-owned-image paths free of additional readback. Use a dedicated transfer allocation/fence so deferred slot writebacks cannot invalidate staging data.
+- Add an opt-in Vulkan integration fixture for one-byte writes, mip/layer/padding preservation, fast paths and deferred writebacks; public APK builds force it off.
+- Capture the updated v196608 character profile and opening dialogue with the current controls. Existing personal import ZIPs remain compatible.
+
 ## 0.1.2-preview — 2026-10-23
 
 - Launch the game directly when imported resources pass a lightweight file/size check; show import only for missing/invalid content.

diff --git a/docs/BUILD.md b/docs/BUILD.md
@@ -30,3 +30,7 @@ The build is scriptable, but byte-for-byte reproducibility is not claimed (ZIP t
 ## Separate game preparation
 
 [prepare_game.py](../scripts/prepare_game.py) additionally needs `requirements.txt`, .NET 10 and SPIRV-Tools. It runs separately using personal inputs outside the source tree. See [GAME_FILES](GAME_FILES.md). The APK build never calls game preparation.
+
+## Optional GPU merge check
+
+Configure the native CMake build with `-DXBG_CPU_MERGE_TEST=ON` to run the one-shot Vulkan image-merge fixture at first present; inspect Android logcat for `NVN CPUWRITE integration PASS`. It requires a running game and is for development only. The public APK script explicitly sets this option OFF.
